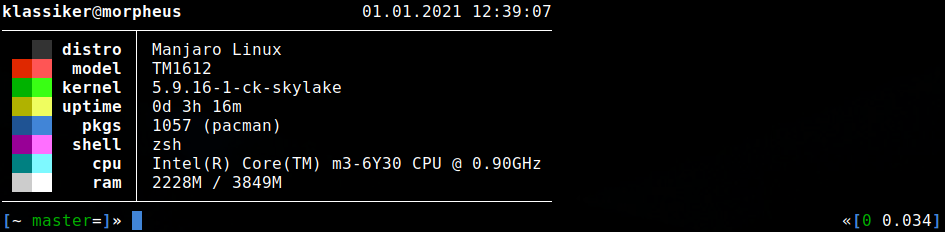
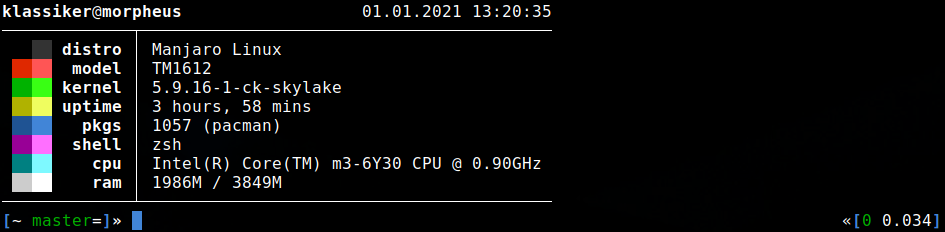
uptime format changed

Changed region(s): [[0.1534, 0.4224, 0.3376, 0.4828], [0.491, 0.0302, 0.5831, 0.0905], [0.1534, 0.7543, 0.2148, 0.8147]]

diff --git a/cinfo.c b/cinfo.c
@@ -2,7 +2,7 @@
  * path:       /home/klassiker/.local/share/repos/cinfo/cinfo.c
  * author:     klassiker [mrdotx]
  * github:     https://github.com/mrdotx/cinfo
- * date:       2021-01-01T12:45:48+0100
+ * date:       2021-01-01T13:25:12+0100
  */
 
 #include <stdio.h>
@@ -40,7 +40,7 @@ char user[50],
      distro[50],
      model[65],
      kernel[50],
-     uptime[] = "999d 23h 59m",
+     uptime[] = "999 days, 23 hours, 59 mins",
      pkgs[] = "99999 (pacman)",
      shell[] = "dash",
      cpu[50],
@@ -155,7 +155,15 @@ void getUptime() {
         hour = (sec / 60 / 60 % 24);
         min = (sec / 60 % 60);
 
-        sprintf(uptime, "%dd %dh %dm", day, hour, min);
+        if (day == 0) {
+            sprintf(uptime, "%d hours, %d mins", hour, min);
+        } else if (day == 0 && hour == 0) {
+            sprintf(uptime, "%d mins", min);
+        } else if (day == 0 && hour == 0 && min == 0) {
+            sprintf(uptime, "under one minute");
+        } else {
+            sprintf(uptime, "%d days, %d hours %d mins", day, hour, min);
+        }
 
         if (linelen < strlen(uptime)) {
             linelen = strlen(uptime);
